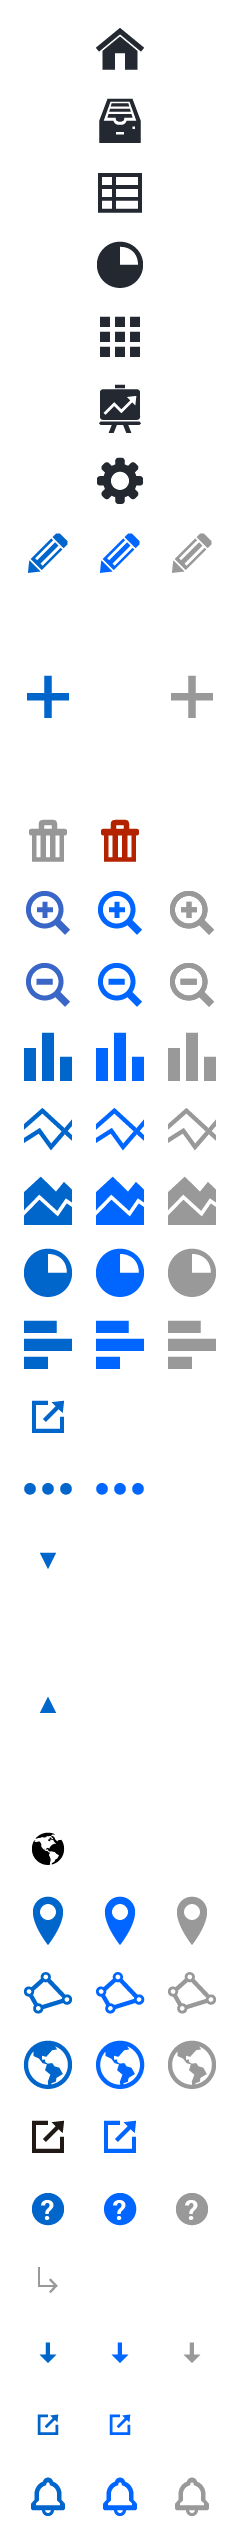
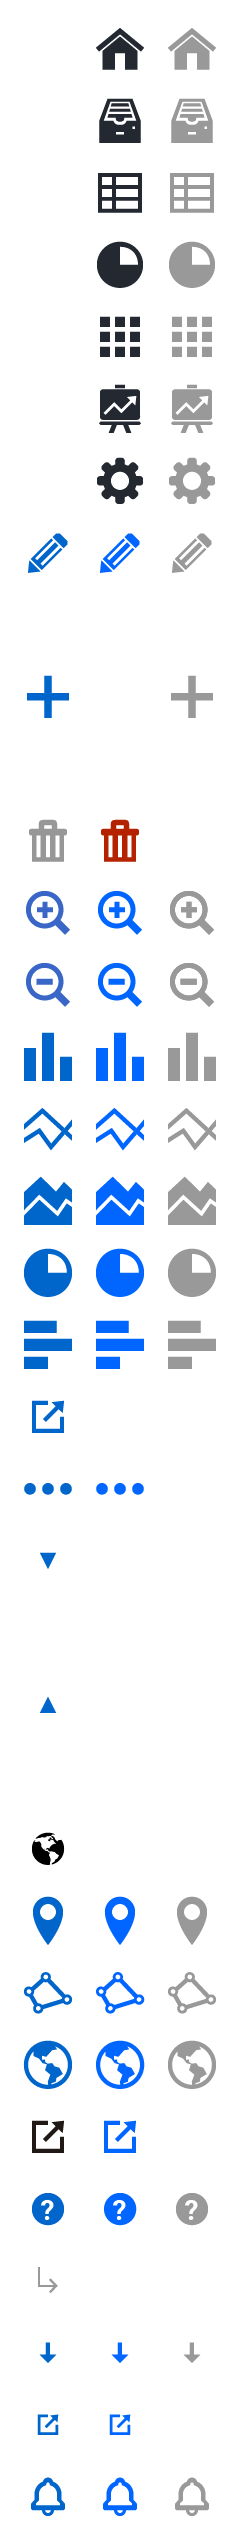
[Workspace] Estilos agregados para botones con íconos solos. Ícono notificaciones agregado y comentado hasta ser usado.

Changed region(s): [[0.7, 0.0, 0.9042, 0.2172]]

diff --git a/workspace/templates/base_workspace.html b/workspace/templates/base_workspace.html
@@ -92,10 +92,13 @@
 										</div>
 									</div>
 
-									<!-- ODS Button -->
-									<a id="id_openDataSiteButton" href="http://{{ preference.account_domain }}" target="_blank" class="button alpha FR" title="{% trans 'HEADER-ODS-BUTTON' %}">{% trans 'HEADER-ODS-BUTTON' %}<span class="icon icon-view-site icon-right"></span></a>
+									<!-- Notifications 
+									<a id="id_notificationsButton" href="#" class="button alpha-icon FR" title="">
+										<span class="icon icon-notifications"></span>
+									</a>
+									-->
 
-									<!-- Notifications -->
+									<!-- ODS Button -->
 									<a id="id_openDataSiteButton" href="http://{{ preference.account_domain }}" target="_blank" class="button alpha FR" title="{% trans 'HEADER-ODS-BUTTON' %}">{% trans 'HEADER-ODS-BUTTON' %}<span class="icon icon-view-site icon-right"></span></a>
 
 								</div>

diff --git a/core/media/core/styles/icons.css b/core/media/core/styles/icons.css
@@ -5,7 +5,8 @@
 .icon-inline,
 .button .icon{display:inline-block;vertical-align:middle;position:relative;top:-2px;}
 .button .icon.icon-right,
-.icon-inline.icon-right{margin-right:0;}
+.icon-inline.icon-right,
+.button.alpha-icon .icon{margin-right:0;}
 
 	/* When used inline in text - Apply to small icons (16x16px in the 24x24px space for icon sprite) */
 	.icon-inline{width:16px;height:16px;margin-right:3px;top:-1px;}
@@ -85,6 +86,8 @@
 	.button:hover .icon-help{background-position:-48px -1092px;}
 	.icon-help.icon-inline{background-position:-16px -1096px;}
 
+	.icon-notifications{background-position:-12px -1236px;}
+	.icon-notifications:hover{background-position:-48px -1236px;}
 
 	/* Arrows */
 	.icon-arrow-down-right{background-position:-12px -1128px;}

diff --git a/core/media/core/styles/buttons.css b/core/media/core/styles/buttons.css
@@ -17,8 +17,10 @@
   .button:hover{color:#0066ff;}
 
   /* Alpha */
-  .button.alpha{font-size:12px;text-transform:none;font-family:Arial, Helvetica, sans-serif !important;border-color:transparent;background:none;font-weight:normal;}
+  .button.alpha,
+  .button.alpha-icon{font-size:12px;text-transform:none;font-family:Arial, Helvetica, sans-serif !important;border-color:transparent;background:none;font-weight:normal;}
   .button.alpha:hover{text-decoration:none;}
+  .button.alpha-icon{min-width:inherit !important;}
     
   /* Back */
   .button.back:before{content:"< ";}
